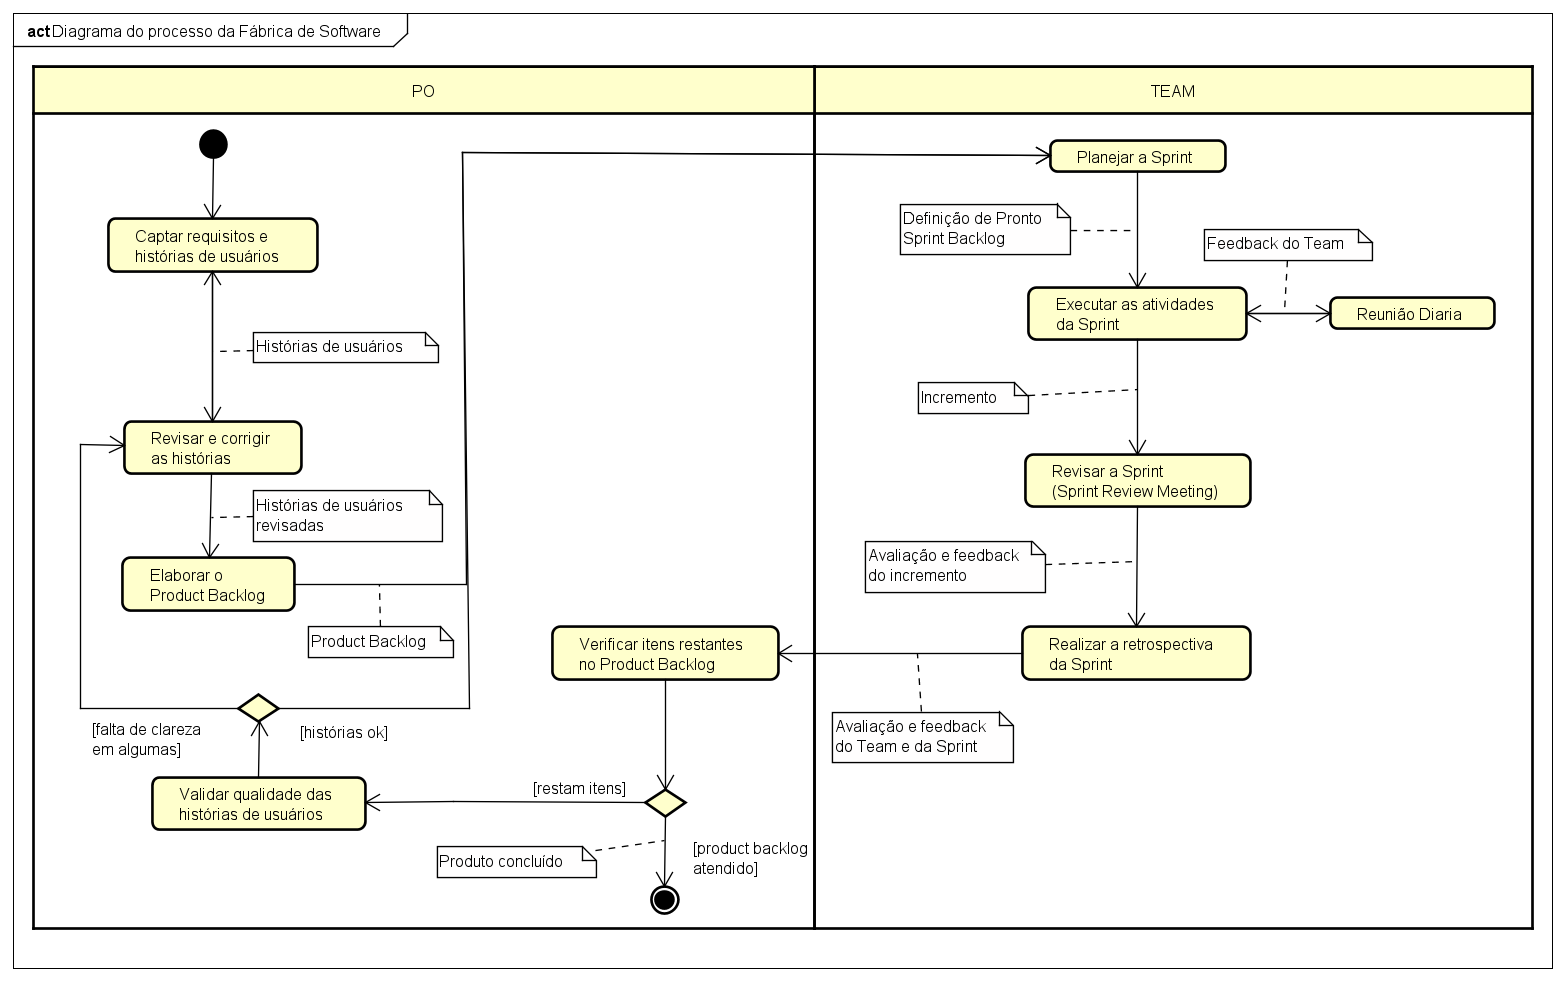
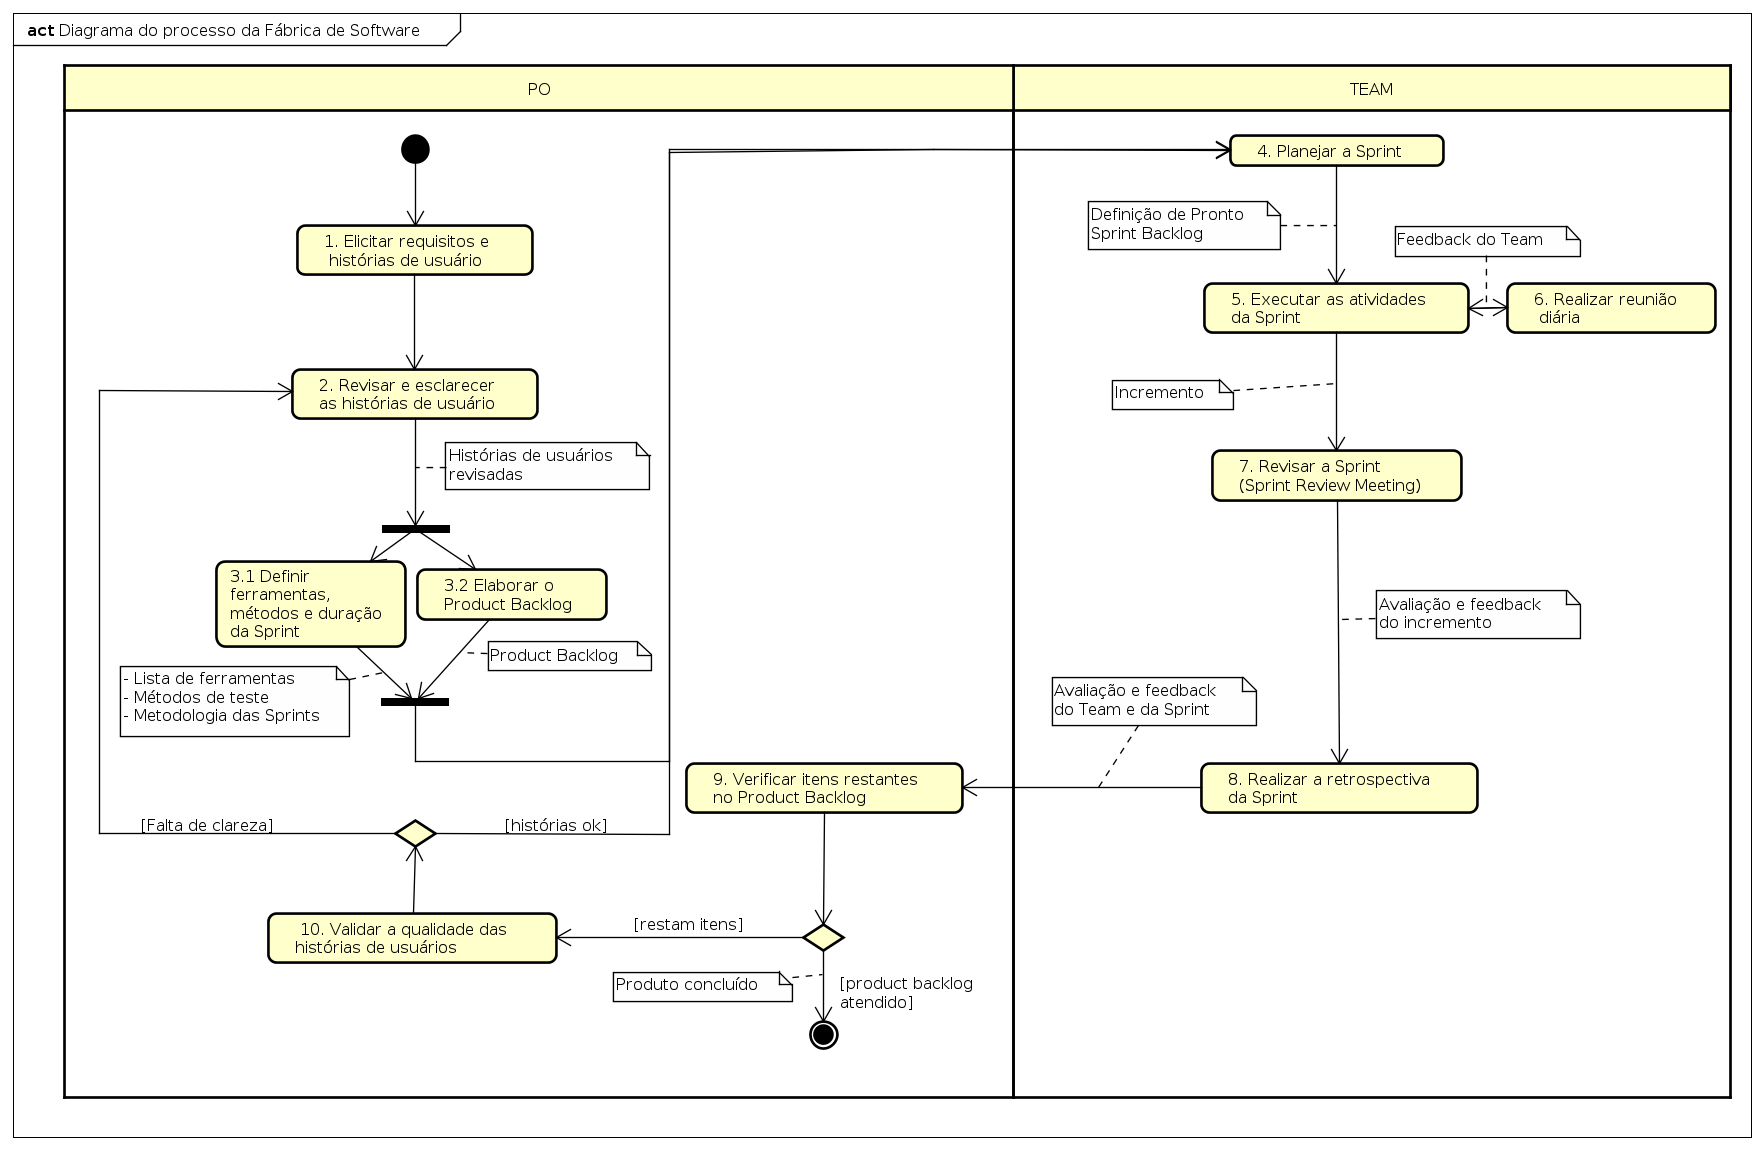
Mudança no diagrama e numeração dos itens

diff --git a/index.html b/index.html
@@ -11,7 +11,7 @@
 		<link href="https://fonts.googleapis.com/css2?family=Lato:ital,wght@0,400;0,700;1,400&display=swap"
 		rel="stylesheet" />
 		<script src="scripts/click_effect.js"></script>
-
+		<!--<script type="text/javascript" src="https://livejs.com/live.js"></script>[> Provem live reload <]-->
 		<link rel="shortcut icon" href="favicon.ico" type="image/x-icon">
 		<link rel="icon" href="favicon.ico" type="image/x-icon">
 		<title>Processo da Fábrica de Software</title>
@@ -25,6 +25,7 @@
 			<a href="#topico_captacao" id="captacao" class="clickable round green"></a>
 			<a href="#topico_revisao_historias" id="revisao_historias" class="clickable round green"></a>
 			<a href="#topico_elaboracao_backlog" id="elaboracao_backlog" class="clickable round green"></a>
+			<a href="#topico_definir_ferramentas" id="definir_ferramentas" class="clickable round green"></a>
 			<a href="#topico_planejar_sprint" id="planejar_sprint" class="clickable round green"></a>
 			<a href="#topico_executar_atividades" id="executar_atividades" class="clickable round green"></a>
 			<a href="#topico_reuniao" id="reuniao" class="clickable round green"></a>
@@ -36,7 +37,7 @@
 		</div>
 		<div class="topics">
 			<section class="topic" id="topico_captacao">
-				<h1> Elicitar requisitos e histórias de usuário </h1>
+				<h1> 1. Elicitar requisitos e histórias de usuário </h1>
 				<a href="#diagrama_scrum" class="blue round" id="voltar">Voltar para o diagrama</a>
 				<hr />
 				<h2>Descrição</h2>
@@ -100,7 +101,7 @@
 			</section>
 
 			<section class="topic" id="topico_revisao_historias">
-				<h1>Revisar e corrigir histórias de usuários</h1>
+				<h1> 2. Revisar e corrigir histórias de usuários</h1>
 				<a href="#diagrama_scrum" class="blue round" id="voltar">Voltar para o diagrama</a>
 				<hr />
 				<h2>Descrição</h2>
@@ -158,8 +159,45 @@
 					Workshops (REW). </strong> IEEE, 2017. p. 292-298.</p>
 			</section>
 
+			<section class="topic" id="topico_definir_ferramentas">
+				<h1>3.1 Definir ferramentas, métodos e duração da Sprint</h1>
+				<a href="#diagrama_scrum" class="blue round" id="voltar">Voltar para o diagrama</a>
+				<hr />
+				<h2>Descrição</h2>
+					Escolha das ferramentas a serem utilizadas, assim como o método de execução da Sprint
+				<p>
+				</p>
+				<h2>Responsáveis</h2>
+				<p>
+					Product Owner (P.O)
+				</p>
+				<h2>Entradas e saídas</h2>
+				<h3>Entrada</h3>
+				<ul>
+					<li>Histórias de usuário revisadas</li>
+				</ul>
+				<h3>Saída</h3>
+				<ul>
+					<li>Lista de ferramentas</li>
+					<li>Métodos de testes</li>
+					<li>Metodologia das Sprints</li>
+				</ul>
+				<h2>Tarefas</h2>
+				<ul>
+					<li>
+						Considerar ferramentas existentes no mercado e escolher a mais adequada de acordo com os requerimentos do sistema
+					</li>
+					<li>
+						Definir o método de testes mais adequado para o produto, e que atenda os requerimentos
+					</li>
+					<li>
+						Definir a metodologia de execução da Sprint e sua duração
+					</li>
+				</ul>
+			</section>
+
 			<section class="topic" id="topico_elaboracao_backlog">
-				<h1>Elaborar o product backlog</h1>
+				<h1>3.2 Elaborar o product backlog</h1>
 				<a href="#diagrama_scrum" class="blue round" id="voltar">Voltar para o diagrama</a>
 				<hr />
 				<h2>Descrição</h2>

diff --git a/styles/clickable-boxes.css b/styles/clickable-boxes.css
@@ -8,6 +8,8 @@
 .clickable {
     position: absolute;
     display: block;
+	/*background-color: red;*/
+	/*opacity:  0.2;*/
 }
 
 .round {
@@ -33,61 +35,70 @@
 
 #captacao {
     width: 13.4%;
-    height: 5.6%;
-    top: 22%;
-    left: 6.9%;
+    height: 4.6%;
+    top: 20%;
+    left: 16.8%;
 } 
+
 #revisao_historias {
-    width: 11.5%;
-    height: 5.6%;
-    top: 42.6%;
-    left: 7.9%;
+    width: 13.8%;
+    height: 4.8%;
+    top: 32.6%;
+    left: 16.7%;
 }
+
+#definir_ferramentas {
+    width: 10.7%;
+    height: 7.5%;
+    top: 50.0%;
+    left: 12.2%;
+}
+
 #elaboracao_backlog {
-    width: 11.1%;
-    height: 5.6%;
-    top: 56.5%;
-    left: 7.8%;
+    width: 10.5%;
+    height: 4.8%;
+    top: 50.5%;
+    left: 23.8%;
 }
 #planejar_sprint {
-    width: 11.2%;
-    height: 3.3%;
-    top: 14.1%;
-    left: 67.1%;
+    width: 12.1%;
+    height: 3.0%;
+    top: 12.1%;
+    left: 69.8%;
 }
 #executar_atividades {
-    width: 14.2%;
-    height: 5.6%;
-    top: 29%;
-    left: 65.6%;
+    width: 15%;
+    height: 4.6%;
+    top: 25%;
+    left: 68.3%;
 }
 #reuniao {
-    width: 10.6%;
-    height: 3.3%;
-    top: 30.1%;
-    left: 84.9%;
+    width: 11.8%;
+    height: 4.3%;
+    top: 25%;
+    left: 85.4%;
 }
 #revisao_sprint {
-    width: 14.5%;
-    height: 5.6%;
-    top: 46%;
-    left: 65.4%;
+    width: 14.4%;
+    height: 4.7%;
+    top: 40%;
+    left: 68.6%;
 }
 #realizar_retrospectiva {
-    width: 14.6%;
-    height: 5.6%;
-    top: 63.5%;
-    left: 65.3%;
+    width: 15.7%;
+    height: 5.0%;
+    top: 67.5%;
+    left: 68.0%;
 }
 #verificar_product_backlog {
-    width: 14.5%;
-    height: 5.6%;
-    top: 63.5%;
-    left: 35.3%;
+    width: 15.6%;
+    height: 5.0%;
+	top: 67.5%;
+    left: 38.9%;
 }
 #verificar_historias {
-    width: 13.7%;
-    height: 5.6%;
-    top: 78.7%;
-    left: 9.7%;
+    width: 16.3%;
+    height: 5.0%;
+    top: 80.8%;
+    left: 15.2%;
 }
